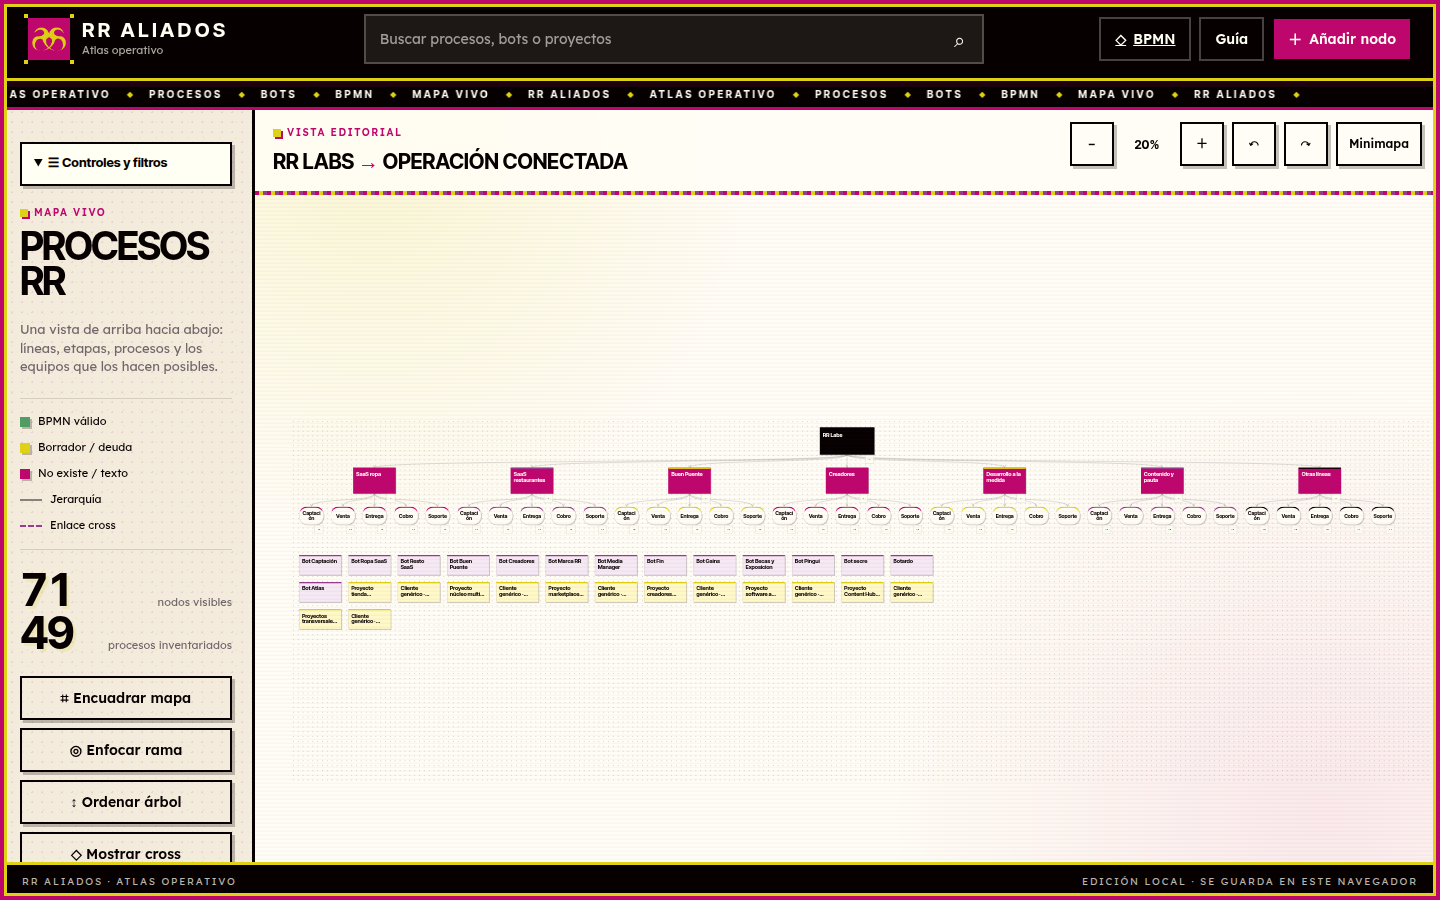
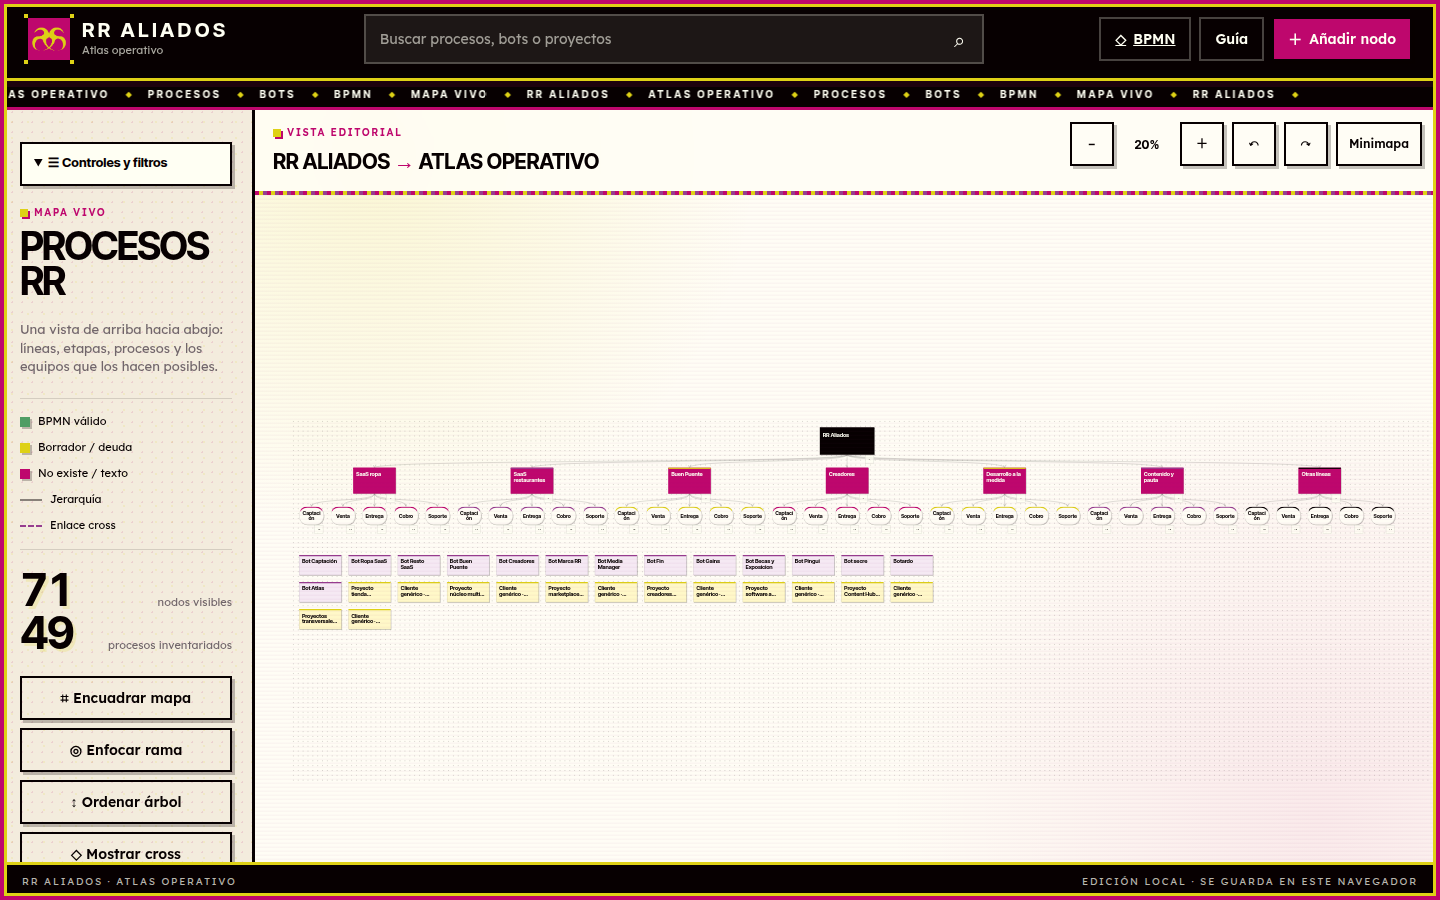
docs: bitácora de las decisiones de Rosas y la reparación de las semillas

diff --git a/docs/fusion/BITACORA.md b/docs/fusion/BITACORA.md
@@ -429,3 +429,48 @@ bloqueaban el item 3. Todo queda commiteado y pusheado en la misma rama.
 - Aplicar las DECISIONES DE ROSAS (item B): quitar «RR Labs» del Mapa vivo, estados de clientes,
   «Guía provisional», leyenda con íconos, reparar las 16 semillas a 0 avisos de lint, bots vigentes.
 - QA final (item D): clics reales de todos los flujos a 390, 768 y 1440 px + capturas por ancho.
+
+### Segunda parte del bloque 7 · Decisiones de Rosas aplicadas (item B, parte 1)
+
+- **Clientes**: BOGA, Candilejas e IMF quedan **activos**; los demás, **en pausa**. Se quitó «Sin
+  confirmar» del estado de clientes (`src/data/inicio-tarjetas.mjs`). Nota: en las fuentes de RR el
+  nombre canónico es «IMF Visions» (Rosas escribió «IMF Weddings»); se dejó el nombre de la fuente y
+  queda la pregunta en `docs/fusion/PREGUNTAS.md`.
+- **Bots vigentes**: Buen Puente y Becas de Exposición quedan **Vigentes**; Media Manager y Gains
+  quedan **Sin confirmar** (`src/data/rr-tree.mjs`, `botDefinitions`).
+- **Título**: el Mapa vivo ya no dice «RR Labs»: la raíz se llama «RR Aliados» y la barra de la vista
+  editorial dice «RR Aliados → Atlas operativo».
+- **Guía provisional**: la guía de cada diagrama arranca con el aviso visible **«Guía provisional»**
+  (`src/bpmn/leyenda.mjs` + `src/app/bpmn-view.mjs` + estilos).
+- **Leyenda**: la guía separa **«Tarea de persona»** (ícono de persona) y **«Tarea de bot»** (ícono de
+  bot, con antena y dos puntos), con glifos distintos.
+
+### Segunda parte del bloque 7 · Semillas BPMN reparadas (item B, parte 2)
+
+- **Qué se reparó** (script nuevo `scripts/reparar-compuertas.mjs`, con `--simular` para ver el plan):
+  1. **8 compuertas que abrían y cerraban a la vez** (`no-gateway-join-fork`): cada una se dividió en
+     dos — una compuerta que **une** (sin nombre, como manda el estándar) y la que **reparte**, que
+     conserva su nombre, sus salidas nombradas y su lugar en el diagrama.
+  2. **24 tareas y eventos con varias entradas** (`fake-join`): se les puso delante una compuerta
+     paralela que las une, como pide el estándar.
+  3. **25 etiquetas de sobra** (`superfluous-label`): se quitó la etiqueta de los flujos que no salen de
+     una compuerta de decisión (el «sí/no» de las compuertas exclusivas se conserva).
+- **Cómo se colocaron las compuertas nuevas**: el script busca un sitio libre alrededor del nodo, sin
+  tocar ninguna otra forma y siempre dentro del participante; si no cabe, la dibuja debajo del
+  diagrama. El script deja el plan en pantalla antes de escribir (`--simular`).
+- **Resultado del lint**: antes **196 avisos** (19 `fake-join`, 25 `superfluous-label`, 43
+  `rr/lane-es-rol`, 109 `rr/tarea-infinitivo`); ahora **0 errores** y **152 avisos**, todos de estilo
+  de contenido del plugin de RR. Las **reglas estructurales de bpmnlint quedan en 0 avisos**.
+  `src/bpmn/seeds/deuda-modelado.json` queda con `casos: []` (la deuda G2 está reparada) y deja
+  anotados los dos avisos de contenido que faltan.
+- **Comprobaciones**: `npm run check` verde (202 tests), `npm run lint:bpmn` verde,
+  `npm run verificar:bpmn-edicion` verde (escritorio y móvil), `npm run verificar:pantalla` verde,
+  `npm run verificar:guia` verde, `npm run verificar:dividido` verde.
+- `src/bpmn/seeds/validacion-semillas.json` se regeneró con el estado real de las 16 semillas.
+
+### Lo que queda del item B
+- **0 avisos de lint en el sentido estricto**: faltan los dos avisos de contenido (`rr/lane-es-rol`,
+  43 carriles que se llaman como una etapa; `rr/tarea-infinitivo`, 109 tareas que no están en
+  infinitivo). Cambiarlos es reescribir el texto que la gente lee en el diagrama, así que queda como
+  **TODO(Rosas)** en `docs/fusion/PREGUNTAS.md` (pase de contenido con el equipo), no como un cambio
+  automático.
